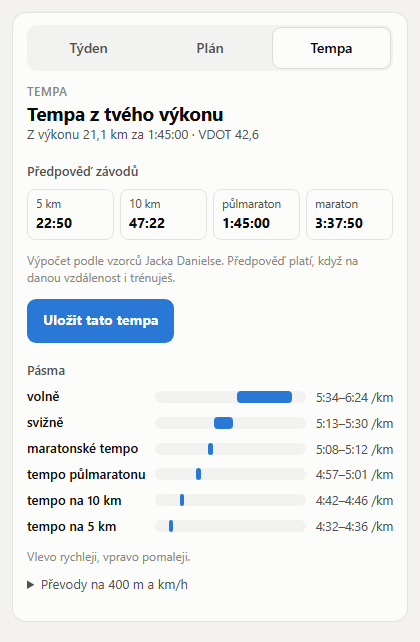
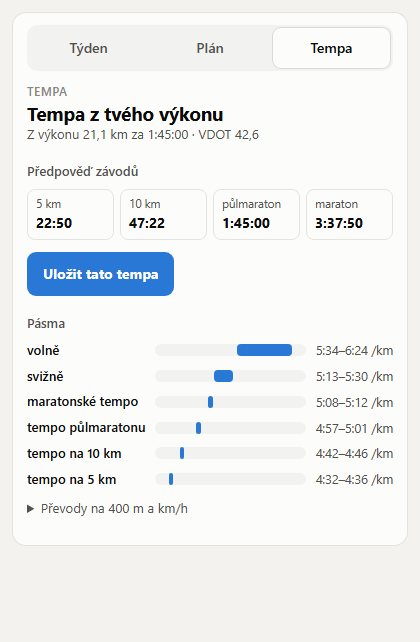
Remove explanatory notes from the cards
Drop "tap a workout", "left faster / right slower", "top is faster",
the "Vychází" explanation, the Daniels footnote, the result disclaimer,
the fitness and import notes; shorten the score texts.

diff --git a/public/widget.html b/public/widget.html
@@ -441,7 +441,7 @@ td .ok { color: var(--good-ink); font-size: 15px; font-weight: 700; }
       var path = f.points.map(function (p, i) { return (i ? 'L' : 'M') + x(i) + ' ' + y(p.vdot); }).join('');
       h += '<svg viewBox="0 0 ' + W + ' ' + H + '" role="img" aria-label="Vývoj odhadu formy"><path d="' + path + '" fill="none" stroke="var(--s1)" stroke-width="2" stroke-linejoin="round"/>' + f.points.map(function (p, i) { return '<circle cx="' + x(i) + '" cy="' + y(p.vdot) + '" r="3.5" fill="var(--s1)"/>'; }).join('') + '</svg>';
     }
-    return h + '<div class="foot">Z úseků a tempových běhů bez zhoršujících okolností. Je to odhad, ne výsledek závodu.</div>';
+    return h;
   }
 
   // ---------- Kontrola importu ----------
@@ -450,7 +450,6 @@ td .ok { color: var(--good-ink); font-size: 15px; font-weight: 700; }
     h += '<div class="sub">' + d.weeks.length + ' ' + plural(d.weeks.length, 'týden', 'týdny', 'týdnů') + (d.missing.length ? ' · chybí ' + d.missing.join(', ') : '') + '</div>';
     h += '<div class="tiles"><div class="tile"><div class="k">Varování</div><div class="v">' + d.warnings + '</div></div>';
     h += '<div class="tile"><div class="k">Tempa z plánu</div><div class="v">' + (d.hasPaces ? 'ano' : 'ne') + '</div></div></div>';
-    if (d.warnings) h += '<div class="note warn" style="margin:10px 0 0"><span>Varování nejsou chyby, které by import zastavily. Projdi je, nebo je nech být.</span></div>';
     h += '<table class="weeks"><thead><tr><th>Týden</th><th>Km</th><th>Autor</th><th></th></tr></thead><tbody>';
     d.weeks.forEach(function (w) {
       var mark = w.totals === 'off' ? '<span class="warn-mark" title="součet nesedí s dokumentem">⚠</span>' : w.issues.length ? '<span class="warn-mark" title="varování">⚠ ' + w.issues.length + '</span>' : '<span class="ok" title="bez varování">✓</span>';
@@ -546,7 +545,7 @@ td .ok { color: var(--good-ink); font-size: 15px; font-weight: 700; }
     h += '<div class="tile"><div class="k">Splněné km</div><div class="v">' + num(s.doneKm) + ' <small>z ' + Math.round(s.plannedKmMax) + '</small></div></div>';
     if (s.longRunKm != null) h += '<div class="tile"><div class="k">Dlouhý běh</div><div class="v">' + num(s.longRunKm) + ' <small>km</small></div></div>';
     h += '</div>';
-    if (d.fatigue) h += '<div class="note warn" style="margin:10px 0 0"><span>' + esc(d.fatigue.text) + ' Možná je čas ubrat.</span><button type="button" data-say="' + esc(d.fatigue.kind === 'pain' ? 'Poslední běhy mě bolí. Co s tím a jak upravit zbytek týdne?' : 'Poslední běhy byly těžké. Navrhni lehčí zbytek týdne.') + '">Ubrat</button></div>';
+    if (d.fatigue) h += '<div class="note warn" style="margin:10px 0 0"><span>' + esc(d.fatigue.text) + '</span><button type="button" data-say="' + esc(d.fatigue.kind === 'pain' ? 'Poslední běhy mě bolí. Co s tím a jak upravit zbytek týdne?' : 'Poslední běhy byly těžké. Navrhni lehčí zbytek týdne.') + '">Ubrat</button></div>';
     if (s.unrecorded) h += '<div class="note warn" style="margin:10px 0 0"><span>' + s.unrecorded + ' ' + plural(s.unrecorded, 'proběhlý trénink není zapsaný', 'proběhlé tréninky nejsou zapsané', 'proběhlých tréninků není zapsaných') + '.</span><button type="button" data-say="' + esc(strava ? 'Doplň splnění tohoto týdne podle Stravy jedním zápisem.' : 'Pomoz mi doplnit splnění tohoto týdne. Zeptej se mě, co jsem odběhl.') + '">Doplnit</button></div>';
     h += '<ul class="days">';
     d.days.forEach(function (day) {
@@ -563,7 +562,7 @@ td .ok { color: var(--good-ink); font-size: 15px; font-weight: 700; }
         h += '</button>' + (opened ? actions(w) : '') + '</li>';
       });
     });
-    h += '</ul>' + (openId ? '' : '<div class="foot">Klepni na trénink pro rozpis a akce.</div>');
+    h += '</ul>';
     return h + hints([['Nemůžu o víkendu', 'O víkendu nemůžu běhat, přeplánuj mi týden.'], ['Zhodnotit týden', strava ? 'Podívej se do Stravy a zhodnoť, co jsem tento týden odběhl.' : 'Zhodnoť můj týden. Řeknu ti, co jsem odběhl.']]);
   }
 
@@ -633,7 +632,7 @@ td .ok { color: var(--good-ink); font-size: 15px; font-weight: 700; }
     paces.forEach(function (p) {
       h += '<div class="zl">' + esc(p.label) + '</div><div class="track"><i style="left:' + pos(p.fromSec) + '%;width:' + (pos(p.toSec) - pos(p.fromSec)) + '%"></i>' + (markerSec != null ? '<b style="left:' + pos(markerSec) + '%"></b>' : '') + '</div><div class="zr">' + pace(p.fromSec) + '–' + pace(p.toSec) + ' /km</div>';
     });
-    return h + '</div><div class="foot">Vlevo rychleji, vpravo pomaleji.' + (markerSec != null ? ' Svislá čárka je ' + markerLabel + '.' : '') + '</div>';
+    return h + '</div>' + (markerSec != null ? '<div class="foot">Svislá čárka je ' + markerLabel + '.</div>' : '');
   }
   function renderPaces(d) {
     var w = d.workout, c = d.calc;
@@ -648,14 +647,13 @@ td .ok { color: var(--good-ink); font-size: 15px; font-weight: 700; }
           var out = r.distMinM != null ? meters(r.distMinM) + (r.distMaxM !== r.distMinM ? ' – ' + meters(r.distMaxM) : '') : r.timeMinSec != null ? dur(r.timeMinSec) + (r.timeMaxSec !== r.timeMinSec ? ' – ' + dur(r.timeMaxSec) : '') : '–';
           h += '<tr><td>' + (r.reps > 1 ? r.reps + '× ' : '') + esc(r.label) + (r.paceFastSec ? ' <span class="sub">' + esc(r.intensityLabel) + '</span>' : '') + '</td><td>' + given + '</td><td>' + p + '</td><td>' + out + '</td></tr>';
         });
-        h += '</tbody></table><div class="foot">„Vychází“ je vzdálenost u úseku na čas a čas u úseku na vzdálenost.</div>';
+        h += '</tbody></table>';
         h += '<div class="more wide" style="margin-top:10px">' + opener(icon('watch') + 'Soubor do hodinek', 'export_garmin', { workoutId: w.id }, 'Připrav mi tuhle jednotku jako soubor do hodinek Garmin.') + '</div>';
       }
     }
     if (c) {
       h += '<div class="sub">Z výkonu ' + num(Math.round(c.distanceM / 100) / 10) + ' km za ' + dur(c.timeSec) + ' · VDOT ' + num(c.vdot) + (c.saved ? ' · uloženo v profilu' : '') + '</div>';
       h += '<h3>Předpověď závodů</h3><div class="pred">' + c.predictions.map(function (x) { return '<div><div class="k">' + esc(x.label) + '</div><div class="v">' + dur(x.timeSec) + '</div></div>'; }).join('') + '</div>';
-      h += '<div class="foot">Výpočet podle vzorců Jacka Danielse. Předpověď platí, když na danou vzdálenost i trénuješ.</div>';
       if (!c.saved) h += opener('Uložit tato tempa', 'calculate_paces', { distanceM: c.distanceM, timeSec: c.timeSec, save: true }, 'Ulož mi tato tempa do profilu.', ' class="primary"');
     }
     if (d.paces.length) {
@@ -689,7 +687,7 @@ td .ok { color: var(--good-ink); font-size: 15px; font-weight: 700; }
       hits += '<rect class="hit" x="' + (L + band * i) + '" y="' + T + '" width="' + band + '" height="' + (H - T - B) + '" rx="4"' + tipAttr('<b>Kolo ' + l.n + '</b>' + pace(l.paceSec) + ' /km · ' + meters(l.distanceM) + ' za ' + dur(l.durationSec) + (l.avgHr != null ? '<br>tep ' + Math.round(l.avgHr) : '') + (inT ? '<br><span>' + inT + '</span>' : '')) + '/>';
     });
     svg += hits + '<path d="' + path + '" fill="none" stroke="var(--s1)" stroke-width="2" stroke-linejoin="round"/>' + dots + '</svg>';
-    return svg + '<div class="foot">Nahoře rychleji.' + (t && v.lapsInTarget != null ? ' V cílovém pásmu ' + v.lapsInTarget + ' z ' + n + ' kol' + (v.steady ? '.' : ', počítají se i rozklus a pauzy.') : '') + '</div>';
+    return svg + (t && v.steady && v.lapsInTarget != null ? '<div class="foot">V cílovém pásmu ' + v.lapsInTarget + ' z ' + n + ' kol.</div>' : '');
   }
   function pickRow(key, options, current, label) {
     return '<div class="pick" role="group" aria-label="' + esc(label) + '">' + options.map(function (o) {
@@ -742,7 +740,6 @@ td .ok { color: var(--good-ink); font-size: 15px; font-weight: 700; }
     if (!r) h += '<div class="acts">' + (strava
       ? '<button type="button" data-say="' + esc('Najdi ve Stravě můj běh z ' + dm(w.date) + ' a zhodnoť ho proti jednotce ' + w.title + '.') + '">Zhodnotit podle Stravy</button>'
       : '<button type="button" data-say="' + esc('Chci zhodnotit běh z ' + dm(w.date) + ' proti jednotce ' + w.title + '. Zeptej se mě na vzdálenost, čas a případně kola.') + '">Zadat čísla běhu</button>') + '</div>';
-    else h += '<div class="foot">' + (sc ? 'Odhad splnění je vodítko z vzdálenosti' + (v.steady ? ' a tempa' : r.reps && r.reps.length ? ' a tempa úseků' : '') + ', ne měření kvality. ' : '') + (d.estimate ? 'Čísla běhu se neukládají, se zápisem jen odhad formy.' : 'Čísla běhu se neukládají.') + '</div>';
     if (w.lines.length) h += '<details><summary>Předpis jednotky</summary><ul class="sub">' + w.lines.map(function (l) { return '<li>' + esc(l) + '</li>'; }).join('') + '</ul></details>';
     return h + hints([['Co dál?', 'Co z toho plyne pro další dny?']]);
   }

diff --git a/src/connector/views.ts b/src/connector/views.ts
@@ -273,7 +273,7 @@ function scoreOf(distanceM: number, plannedMinM: number, plannedMaxM: number, un
     const ratio = distanceM / (plannedMinM > 0 ? plannedMinM : plannedMaxM);
     const tooLong = !unknown && distanceM > plannedMaxM * 1.15;
     const value = ratio >= 0.97 ? (tooLong ? 90 : 100) : Math.max(0, Math.round(ratio * 100));
-    parts.push({ label: 'Vzdálenost', value, text: ratio >= 0.97 ? (tooLong ? 'výrazně delší než plán' : unknown ? 'odpovídá plánu; část jednotky je jen na čas, porovnání je přibližné' : 'odpovídá plánu') : `${Math.round(ratio * 100)} % plánované vzdálenosti` });
+    parts.push({ label: 'Vzdálenost', value, text: ratio >= 0.97 ? (tooLong ? 'výrazně delší než plán' : unknown ? 'odpovídá plánu (část jen na čas)' : 'odpovídá plánu') : `${Math.round(ratio * 100)} % plánované vzdálenosti` });
   }
   let paceWeight = 0.4;
   if (target && steady) {
@@ -281,7 +281,7 @@ function scoreOf(distanceM: number, plannedMinM: number, plannedMaxM: number, un
     const excused = slowerBy > 2 && conditions.some((c) => SLOWING.includes(c));
     const value = fasterBy > 2 ? Math.round(100 - Math.min(40, fasterBy * 2)) : slowerBy > 2 ? Math.round(100 - Math.min(40, slowerBy * 1.5)) : 100;
     if (excused) paceWeight = 0.15;
-    parts.push({ label: 'Tempo', value, text: fasterBy > 2 ? `o ${Math.round(fasterBy)} s/km rychleji než cílové pásmo` : slowerBy > 2 ? `o ${Math.round(slowerBy)} s/km pomaleji než cílové pásmo${excused ? '; okolnosti to vysvětlují, váha tempa je snížená' : ''}` : 'v cílovém pásmu' });
+    parts.push({ label: 'Tempo', value, text: fasterBy > 2 ? `o ${Math.round(fasterBy)} s/km rychleji než cílové pásmo` : slowerBy > 2 ? `o ${Math.round(slowerBy)} s/km pomaleji než cílové pásmo${excused ? ' (okolnosti to vysvětlují)' : ''}` : 'v cílovém pásmu' });
   }
   if (target && !steady && reps.length) {
     // U intervalů rozhoduje tempo rychlých úseků; vzdálenost celého běhu má menší váhu.
@@ -291,7 +291,7 @@ function scoreOf(distanceM: number, plannedMinM: number, plannedMaxM: number, un
     const excused = slower > 0 && conditions.some((c) => SLOWING.includes(c));
     paceWeight = excused ? 0.25 : 0.5;
     const trend = slower > faster ? 'pomaleji' : 'rychleji';
-    parts.push({ label: 'Úseky', value: Math.round(100 - Math.min(40, avgOff * 3)), text: `${inBand} z ${reps.length} v cílovém pásmu${avgOff >= 1 ? `, průměrně o ${Math.round(avgOff)} s/km ${trend}` : ''}${excused ? '; okolnosti to vysvětlují, váha tempa je snížená' : ''}` });
+    parts.push({ label: 'Úseky', value: Math.round(100 - Math.min(40, avgOff * 3)), text: `${inBand} z ${reps.length} v cílovém pásmu${avgOff >= 1 ? `, průměrně o ${Math.round(avgOff)} s/km ${trend}` : ''}${excused ? ' (okolnosti to vysvětlují)' : ''}` });
   }
   if (!parts.length) return null;
   const dist = parts.find((p) => p.label === 'Vzdálenost'), pace = parts.find((p) => p.label === 'Tempo' || p.label === 'Úseky');

diff --git a/src/connector/connector.test.ts b/src/connector/connector.test.ts
@@ -487,7 +487,7 @@ describe('konektor Run Tracker', () => {
     // rychlostní trénink: úseky v tempu na 5 km nemají v tempech rozsah, takže jejich délka není známá
     const fast = await call('show_result', { workoutId: idOf(plan, '2026-11-17', 'Speed Session'), run: { distanceM: 9000, movingSec: 2900 } });
     expect(fast.data.score.parts[0]).toMatchObject({ label: 'Vzdálenost', value: 100 });
-    expect(fast.data.score.parts[0].text).toContain('přibližné');
+    expect(fast.data.score.parts[0].text).toContain('část jen na čas');
     expect(fast.data.verdict.distance).toBe('ok');
   });
 
